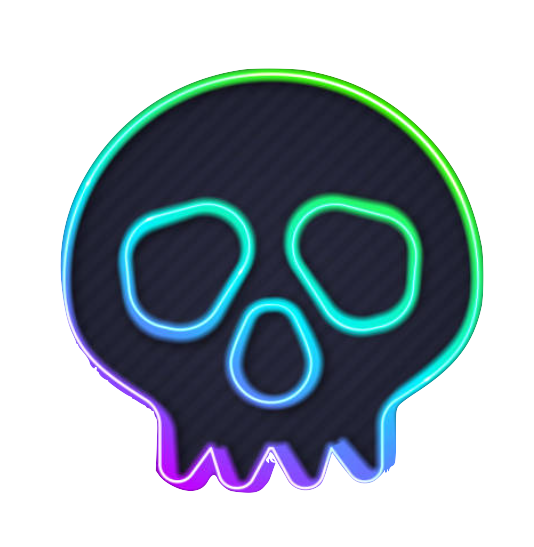
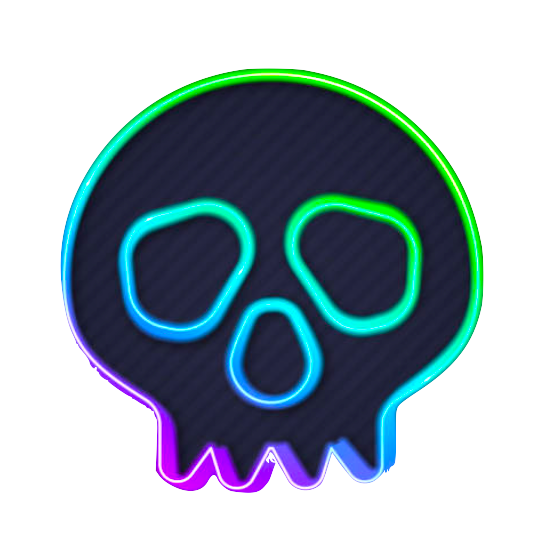
01C: Task 9: Speedometer

diff --git a/index.html b/index.html
@@ -465,6 +465,34 @@
             font-style: italic;
         }
 
+        /* Speed Counter */
+        .speed-counter {
+            position: fixed;
+            bottom: 90px;
+            right: 20px;
+            font-size: 2rem;
+            font-weight: 400;
+            color: #00ff00;
+            text-shadow:
+                0 0 1px currentColor,
+                0 0 15px currentColor,
+                0 0 25px currentColor,
+                0 0 35px currentColor;
+            z-index: 2000;
+            font-family: 'Press Start 2P', cursive;
+            font-style: italic;
+            pointer-events: none;
+            user-select: none;
+            letter-spacing: 0.1rem;
+            transition: color 0.3s ease;
+        }
+
+        .speed-counter .unit {
+            font-size: 1rem;
+            margin-left: 0.2rem;
+            font-style: italic;
+        }
+
         /* Touch Control Tutorial */
         .touch-tutorial {
             position: fixed;
@@ -777,6 +805,16 @@
                 font-size: 1rem;
             }
 
+            .speed-counter {
+                bottom: 60px;
+                right: 10px;
+                font-size: 1.3rem;
+            }
+
+            .speed-counter .unit {
+                font-size: 0.7rem;
+            }
+
             .debug-panel.mobile-hidden {
                 display: none;
             }
@@ -859,6 +897,11 @@
             <div class="song-title" id="songTitle">Loading...</div>
             <div class="song-artist" id="songArtist"></div>
         </div>
+    </div>
+
+    <!-- Speed Counter -->
+    <div class="speed-counter" id="speedCounter">
+        <span id="speedValue">0.0</span><span class="unit">m/s</span>
     </div>
 
     <!-- Distance Counter -->
@@ -1089,7 +1132,7 @@
         import { ObstacleSpawner } from './js/01C/systems/ObstacleSpawner.js';
         import { MathGateGenerator } from './js/01C/systems/MathGateGenerator.js';
         import { EnemyGenerator } from './js/01C/systems/EnemyGenerator.js';
-        import { ComputedValues } from './js/01C/game/GameParameters.js';
+        import { GameParameters, ComputedValues } from './js/01C/game/GameParameters.js';
 
         const canvas = document.getElementById('gameCanvas');
         const ctx = canvas.getContext('2d');
@@ -1316,6 +1359,37 @@
             // Update distance counter (uses display distance which freezes on game over)
             const distanceValue = document.getElementById('distanceValue');
             distanceValue.textContent = Math.floor(game.getDisplayDistanceInMeters());
+
+            // Update speed counter with color gradient from green to red
+            const speedValue = document.getElementById('speedValue');
+            const speedCounter = document.getElementById('speedCounter');
+            const currentSpeedMps = game.getSpeedInMetersPerSecond();
+            speedValue.textContent = currentSpeedMps.toFixed(1);
+
+            // Calculate color based on speed (green at min, red at max)
+            const minSpeed = GameParameters.WORLD_SCROLL_SPEED_MIN * GameParameters.METERS_PER_PIXEL;
+            const maxSpeed = GameParameters.WORLD_SCROLL_SPEED_MAX * GameParameters.METERS_PER_PIXEL;
+            const speedProgress = Math.min((currentSpeedMps - minSpeed) / (maxSpeed - minSpeed), 1.0);
+
+            // Interpolate from bright green to bright yellow to bright red
+            // Add white component to brighten mid-range colors
+            let red, green, blue;
+            if (speedProgress < 0.5) {
+                // Green to Yellow (0.0 to 0.5)
+                const t = speedProgress * 2; // 0 to 1
+                red = Math.floor(t * 255);
+                green = 255;
+                blue = 0;
+            } else {
+                // Yellow to Red (0.5 to 1.0)
+                const t = (speedProgress - 0.5) * 2; // 0 to 1
+                red = 255;
+                green = Math.floor((1 - t) * 255);
+                blue = 0;
+            }
+
+            const colorHex = `#${red.toString(16).padStart(2, '0')}${green.toString(16).padStart(2, '0')}${blue.toString(16).padStart(2, '0')}`;
+            speedCounter.style.color = colorHex;
 
             // Draw HUD
             if (!window.HIDE_HUD) {

diff --git a/test-harness/run-test-playwright.js b/test-harness/run-test-playwright.js
@@ -21,10 +21,35 @@ const BASE_URL = 'http://localhost:8080';
 const TEST_DURATION = 10000; // 10 seconds
 const SCREENSHOT_TIMES = [1000, 5000, 10000]; // 1s, 5s, 10s
 const SCREENSHOTS_DIR = path.join(__dirname, 'screenshots');
+const REFERENCE_DIR = path.join(__dirname, 'screenshots-reference');
+const PREVIOUS_DIR = path.join(__dirname, 'screenshots-previous');
 
-// Ensure screenshots directory exists
+// Ensure directories exist
 if (!fs.existsSync(SCREENSHOTS_DIR)) {
     fs.mkdirSync(SCREENSHOTS_DIR, { recursive: true });
+}
+if (!fs.existsSync(REFERENCE_DIR)) {
+    fs.mkdirSync(REFERENCE_DIR, { recursive: true });
+}
+if (!fs.existsSync(PREVIOUS_DIR)) {
+    fs.mkdirSync(PREVIOUS_DIR, { recursive: true });
+}
+
+/**
+ * Archive current screenshots to previous directory
+ */
+function archiveCurrentScreenshots() {
+    console.log('📦 Archiving current screenshots to previous...');
+
+    // Move current screenshots to previous directory
+    SCREENSHOT_TIMES.forEach(time => {
+        const currentFile = path.join(SCREENSHOTS_DIR, `screenshot-${time}ms.jpg`);
+        const previousFile = path.join(PREVIOUS_DIR, `screenshot-${time}ms.jpg`);
+
+        if (fs.existsSync(currentFile)) {
+            fs.copyFileSync(currentFile, previousFile);
+        }
+    });
 }
 
 /**
@@ -32,6 +57,9 @@ if (!fs.existsSync(SCREENSHOTS_DIR)) {
  */
 async function runTest() {
     console.log('🚀 Starting Blob Army test harness (Playwright)...');
+
+    // Archive existing screenshots before running new test
+    archiveCurrentScreenshots();
 
     const browser = await chromium.launch({
         headless: true
@@ -136,12 +164,33 @@ async function runTest() {
             console.log(`  - ${(time/1000).toFixed(1)}s: ${filename}`);
         });
 
-        // Display screenshots in terminal (just the paths)
-        console.log('\n📁 Screenshot files:');
+        // Display all screenshot locations
+        console.log('\n📁 Screenshot directories:');
+        console.log('  Current iteration:');
         SCREENSHOT_TIMES.forEach(time => {
             const filename = path.join(SCREENSHOTS_DIR, `screenshot-${time}ms.jpg`);
             if (fs.existsSync(filename)) {
-                console.log(`  ✓ ${filename}`);
+                console.log(`    ✓ ${filename}`);
+            }
+        });
+
+        console.log('  Previous iteration:');
+        SCREENSHOT_TIMES.forEach(time => {
+            const filename = path.join(PREVIOUS_DIR, `screenshot-${time}ms.jpg`);
+            if (fs.existsSync(filename)) {
+                console.log(`    ✓ ${filename}`);
+            } else {
+                console.log(`    - ${filename} (not available)`);
+            }
+        });
+
+        console.log('  Reference (golden):');
+        SCREENSHOT_TIMES.forEach(time => {
+            const filename = path.join(REFERENCE_DIR, `screenshot-${time}ms.jpg`);
+            if (fs.existsSync(filename)) {
+                console.log(`    ✓ ${filename}`);
+            } else {
+                console.log(`    - ${filename} (not set - copy from screenshots/ to set reference)`);
             }
         });
 

diff --git a/js/01C/game/Game.js b/js/01C/game/Game.js
@@ -25,6 +25,8 @@ export class Game {
         this.lastTime = 0;
         this.distanceTraveled = 0; // In world units
         this.finalDistance = 0; // Distance when game over occurred
+        this.currentSpeed = GameParameters.WORLD_SCROLL_SPEED_MIN; // Current speed in pixels/second
+        this.gameTime = 0; // Time elapsed since game started (for speed ramping)
 
         // Entities (managed by renderer, but we track them here too)
         this.entities = [];
@@ -106,8 +108,19 @@ export class Game {
      * @param {number} deltaTime - Time elapsed since last frame (seconds)
      */
     update(deltaTime) {
+        // Update game time and speed ramping (ONLY during PLAYING, not PREPLAY)
+        if (this.state === 'PLAYING') {
+            this.gameTime += deltaTime;
+
+            // Calculate speed with ramping (linear interpolation from min to max)
+            const speedProgress = Math.min(this.gameTime / GameParameters.SPEED_RAMP_DURATION, 1.0);
+            this.currentSpeed = GameParameters.WORLD_SCROLL_SPEED_MIN +
+                (GameParameters.WORLD_SCROLL_SPEED_MAX - GameParameters.WORLD_SCROLL_SPEED_MIN) * speedProgress;
+        }
+        // PREPLAY keeps minimum speed (no ramping)
+
         // World scrolling speed
-        const scrollSpeed = GameParameters.WORLD_SCROLL_SPEED;
+        const scrollSpeed = this.currentSpeed;
 
         // Track distance traveled (continues even in game over for world scrolling)
         this.distanceTraveled += scrollSpeed * deltaTime;
@@ -124,8 +137,8 @@ export class Game {
         };
 
         // Move player forward (not gates or track - they stay fixed in world space)
-        // Only move player in PLAYING state
-        if (this.state === 'PLAYING' && player) {
+        // Move player in both PREPLAY and PLAYING states for scrolling effect
+        if ((this.state === 'PREPLAY' || this.state === 'PLAYING') && player) {
             player.z += scrollSpeed * deltaTime;
         }
 
@@ -195,10 +208,20 @@ export class Game {
     }
 
     /**
+     * Get current speed in meters per second
+     * @returns {number} Speed in m/s
+     */
+    getSpeedInMetersPerSecond() {
+        return this.currentSpeed * GameParameters.METERS_PER_PIXEL;
+    }
+
+    /**
      * Reset the game
      */
     reset() {
         this.distanceTraveled = 0;
+        this.gameTime = 0;
+        this.currentSpeed = GameParameters.WORLD_SCROLL_SPEED_MIN;
         this.camera.setPosition(0, GameParameters.CAMERA_HEIGHT, 0);
 
         // Reset all entities that have a reset method

diff --git a/test-harness/check-errors.js b/test-harness/check-errors.js
@@ -1,0 +1,56 @@
+/**
+ * Check for JavaScript errors in the game
+ */
+
+import { chromium } from 'playwright';
+
+const BASE_URL = 'http://localhost:8080';
+
+async function checkErrors() {
+    console.log('🔍 Checking for JavaScript errors...');
+
+    const browser = await chromium.launch({ headless: true });
+    const context = await browser.newContext({
+        viewport: { width: 1000, height: 1000 }
+    });
+    const page = await context.newPage();
+
+    const errors = [];
+    const consoleMessages = [];
+
+    page.on('console', msg => {
+        const text = msg.text();
+        consoleMessages.push({ type: msg.type(), text });
+        if (msg.type() === 'error') {
+            console.log(`❌ Console Error: ${text}`);
+        }
+    });
+
+    page.on('pageerror', error => {
+        errors.push(error.message);
+        console.log(`❌ Page Error: ${error.message}`);
+    });
+
+    try {
+        await page.goto(BASE_URL, { waitUntil: 'networkidle', timeout: 10000 });
+        await page.waitForTimeout(2000);
+
+        if (errors.length === 0) {
+            console.log('✅ No JavaScript errors detected');
+        } else {
+            console.log(`\n⚠  Found ${errors.length} error(s)`);
+        }
+
+        console.log('\n📋 Console messages:');
+        consoleMessages.slice(0, 20).forEach(({ type, text }) => {
+            console.log(`  [${type}] ${text}`);
+        });
+
+    } catch (error) {
+        console.error('❌ Failed to load page:', error.message);
+    } finally {
+        await browser.close();
+    }
+}
+
+checkErrors();

diff --git a/test-harness/set-reference.js b/test-harness/set-reference.js
@@ -1,0 +1,37 @@
+/**
+ * Set Reference Screenshots
+ *
+ * Copies current screenshots to the reference directory.
+ * Use this when you've verified that the current screenshots are correct
+ * and want to use them as the "golden" reference for future comparisons.
+ */
+
+import path from 'path';
+import fs from 'fs';
+import { fileURLToPath } from 'url';
+
+const __filename = fileURLToPath(import.meta.url);
+const __dirname = path.dirname(__filename);
+
+const SCREENSHOTS_DIR = path.join(__dirname, 'screenshots');
+const REFERENCE_DIR = path.join(__dirname, 'screenshots-reference');
+const SCREENSHOT_TIMES = [1000, 5000, 10000];
+
+console.log('📌 Setting reference screenshots...');
+
+let copiedCount = 0;
+SCREENSHOT_TIMES.forEach(time => {
+    const sourceFile = path.join(SCREENSHOTS_DIR, `screenshot-${time}ms.jpg`);
+    const refFile = path.join(REFERENCE_DIR, `screenshot-${time}ms.jpg`);
+
+    if (fs.existsSync(sourceFile)) {
+        fs.copyFileSync(sourceFile, refFile);
+        console.log(`  ✓ Copied screenshot-${time}ms.jpg to reference`);
+        copiedCount++;
+    } else {
+        console.log(`  ✗ Source file not found: screenshot-${time}ms.jpg`);
+    }
+});
+
+console.log(`\n✅ Set ${copiedCount} reference screenshot(s)`);
+console.log('These will now be used as the "golden" reference for future test runs.');

diff --git a/js/01C/game/GameParameters.js b/js/01C/game/GameParameters.js
@@ -9,7 +9,10 @@ export const GameParameters = {
     FRAME_TIME: 1000 / 60, // milliseconds per frame
 
     // World & Scrolling
-    WORLD_SCROLL_SPEED: 200, // pixels per second (forward movement)
+    WORLD_SCROLL_SPEED: 200, // pixels per second (forward movement) - DEPRECATED, use speed ramping
+    WORLD_SCROLL_SPEED_MIN: 200, // Starting speed in pixels/second
+    WORLD_SCROLL_SPEED_MAX: 800, // Maximum speed in pixels/second
+    SPEED_RAMP_DURATION: 60, // Seconds to reach max speed
     METERS_PER_PIXEL: 0.01, // conversion factor for score
 
     // Player

diff --git a/js/01C/entities/Enemy.js b/js/01C/entities/Enemy.js
@@ -22,7 +22,7 @@ export class Enemy extends Entity3D {
 
         // Sprite properties - skull
         this.spriteSheet = new Image();
-        this.spriteSheet.src = 'js/01C/assets/skull-v1.png';
+        this.spriteSheet.src = 'js/01C/assets/skull-v2.png';
         this.spriteLoaded = false;
         this.spriteSheet.onload = () => {
             this.spriteLoaded = true;
